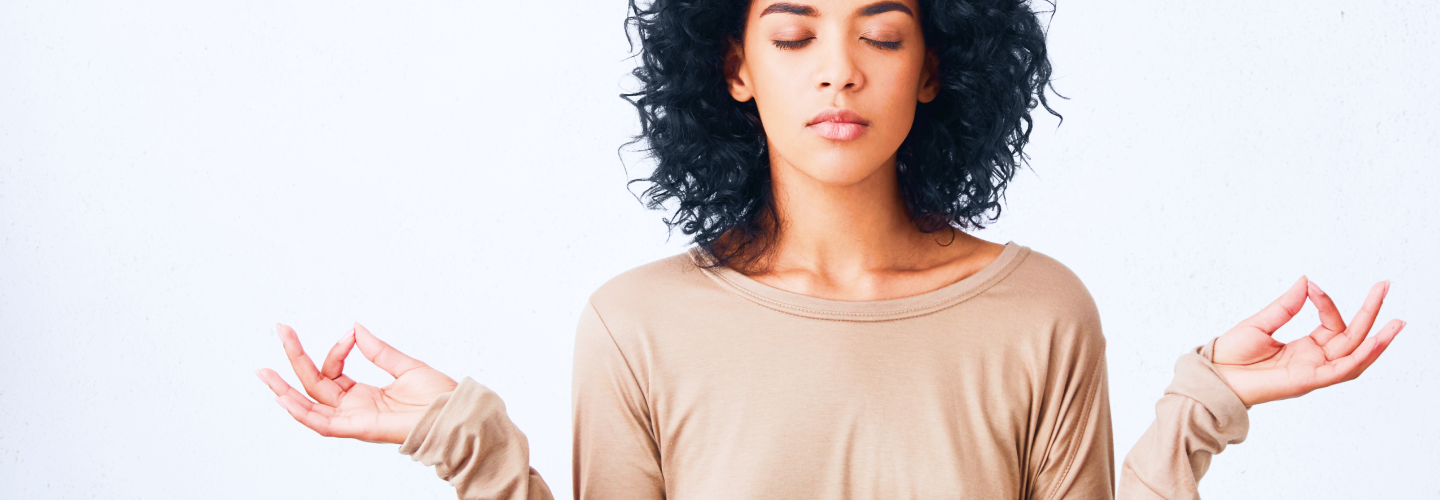
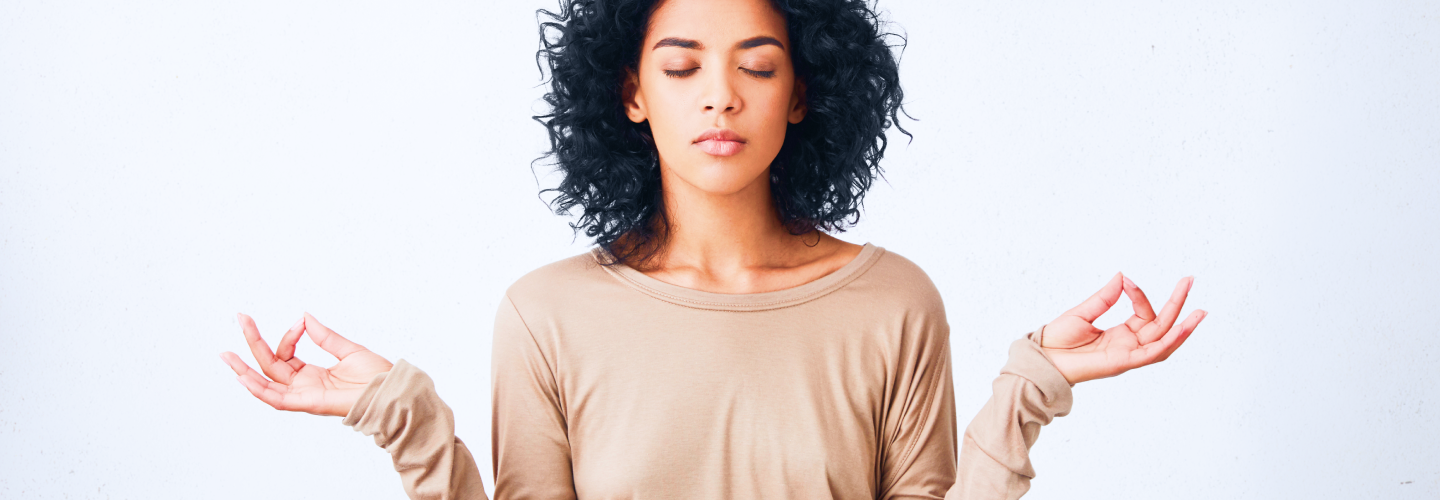
changes in introPatrick

diff --git a/src/home/sections/IntroPatrick.jsx b/src/home/sections/IntroPatrick.jsx
@@ -13,15 +13,14 @@ const useStyles = makeStyles(({ palette, ...theme }) => ({
    position: "relative",
    top: "0",
    left: "0",
-   background: "#FAFBFF",
    margin: "0 auto",
   textAlign: "center"
   },
 
   avatar: {
     position: "absolute",
-    bottom: "60%",
-    left: "40%",
+    bottom: "54%",
+    left: "44%",
     border: "2px solid #394d5b"
   },
 
@@ -37,6 +36,7 @@ const useStyles = makeStyles(({ palette, ...theme }) => ({
     bottom: "18%",
     left: "38%",
     color: "#384C5A"
+
   },
 
   h2: {
@@ -53,7 +53,7 @@ const useStyles = makeStyles(({ palette, ...theme }) => ({
     color: "#384C5A"
   },
   
-  p :{
+  p: {
     fontFamily: "Lato",
     fontStyle: "normal",
     fontWeight: "400",
@@ -64,10 +64,13 @@ const useStyles = makeStyles(({ palette, ...theme }) => ({
   },
 
   bg: {
-    background: "url('./assets/images/bgPatrick.png')",
-    maxWidth: "100%",
+    backgroundImage: "url('./assets/images/bgPatrick.png')",
     borderRadius: 16,
-    //transform: "matrix(-1, 0, 0, 1, 0, 0)"
+     width: "100%",
+    backgroundRepeat: "no-repeat",
+    height: "460px",
+    backgroundSize: "contain",
+    border: `1px solid ${palette.third}`
   },
 
   button: {
@@ -93,36 +96,34 @@ const IntroPatrick = () => {
     <section className= "section">
 
       <div className="container-intro-patrick text-center">
+
+                <div className={classes.bg}>
+
                 <div className={clsx( classes.center , "text-center" )}>
 
-                  <Avatar
-                    src="/assets/images/patrick.png"
-                    className={clsx ("h-140 w-140", classes.avatar)}
-                  ></Avatar>
+                <Avatar
+                  src="/assets/images/patrick.png"
+                  className={clsx ("h-140 w-140", classes.avatar)}
+                ></Avatar>
 
-                  <h1 className={classes.h1}> PATRICK </h1>
-                  
-                  <h1 className={classes.h2}> CAILLER </h1>
-            
-                </div>
+                <span>
+                <h1 className={classes.h1}> PATRICK </h1>
+                
+                <h1 className={classes.h2}> CAILLER </h1>
 
-                <Grid container spacing={3} justify="flex-start">
-                <div className={classes.bg}>
-                  <Grid lg={5} md={5} sm={5} xs={12}>
+                </span>
+          
+              </div>
+
+                  <Grid container lg={5} md={5} sm={5} xs={12} justify="center" alignItems="center">
                    
-                  <p className={clsx( classes.p)}>
+                  <p className={classes.p}>
 
                   En 1997 j’ai vécu de l’intérieur ce qu’on appelle un burn-out, 
                   après un épuisement total physique et intellectuel j’avais du mal à cette époque à assumer mon corps. 
                   Je ressentais de l’aversion envers mon physique et ma personne ;
                   j’avais parallèlement des soucis d’addictions (tabac alcool) pour compenser mon mal être.
-                  Pour sortir de ces problèmes j’ai du me faire accompagner par de nombreux thérapeutes.
-
-                  Dans ces années là,  alors que j’étais perdu entre ma carrière dans la restauration (manager),
-                  et une ambition de changer de métier et l’envie tout simplement de vivre !
-                  j’ai découvert le yoga, la méditation et les massages bien-être.
-                  
-                  J’ai commencé petit à petit à faire quelques mouvements de yoga, à respirer,...
+                  Pour sortir de ces problèmes j’ai du me faire accompagner par de nombreux thérapeutes..
                   
                                          
                   </p>
@@ -133,9 +134,6 @@ const IntroPatrick = () => {
 
                   </div>
 
-
-              </Grid>
-               
       </div>
     </section>
   );

diff --git a/src/home/sections/Massages.jsx b/src/home/sections/Massages.jsx
@@ -75,9 +75,10 @@ const Massages = () => {
 
       <div className="container">
 
-        <Grid container spacing={0} justify="center">
+        <Grid container spacing={0} sm={12} md={12} lg={12} xs={12} justify="center" alignItems="center">
           {massagesList.map((item, ind) => (
-            <Grid key={ind} item sm={4} xs={12}>
+            
+            <Grid key={ind} item sm={4} md={4} lg={4} xs={12}>
               <div
                 className={clsx(
                   "text-center max-w-600",

diff --git a/public/index.html b/public/index.html
@@ -3,7 +3,7 @@
   <head>
     <meta charset="utf-8" />
     <link rel="shortcut icon" href="%PUBLIC_URL%/favicon.ico" />
-    <meta name="viewport" content="width=device-width, initial-scale=1" />
+    <meta name="viewport" content="width=device-width, initial-scale=1.0">
     <meta name="theme-color" content="#000000" />
     <!--
       manifest.json provides metadata used when your web app is installed on a

diff --git a/src/home/sections/Coaching.jsx b/src/home/sections/Coaching.jsx
@@ -15,7 +15,7 @@ const Coaching = () => {
   return (
     <section className="section">
 
-    <div className="container-AllServices">
+    <div className="container">
       
   <img src='/assets/images/coach.png' alt="" />
 
